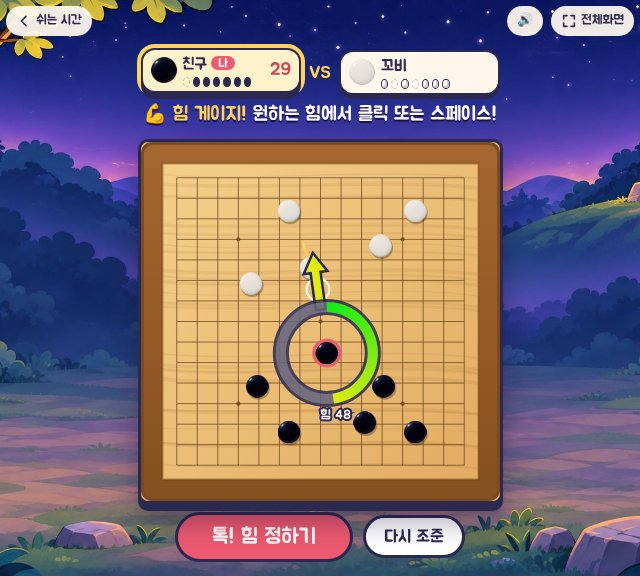
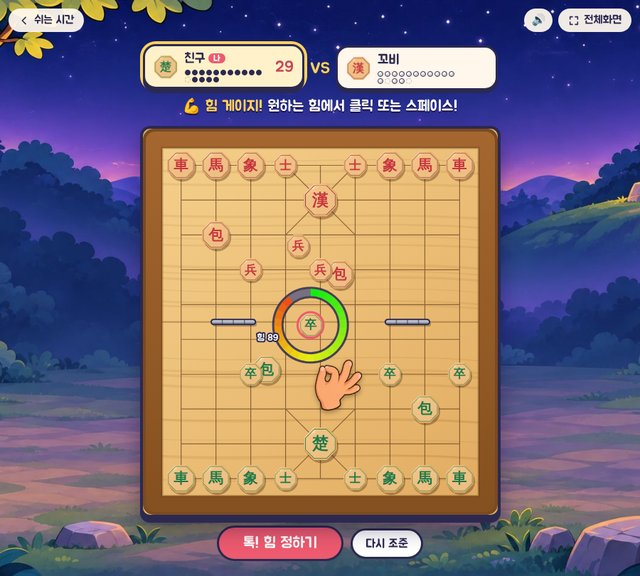
알까기: 홈 화면 썸네일을 장기알 판으로 (#26)
* 알까기: 홈 화면 썸네일을 장기알 판으로

Claude-Session: https://claude.ai/code/session_01TJDp5WhX27f1nAHrnhnPbG

* 홈: 알까기 썸네일 새로 불러오기

Claude-Session: https://claude.ai/code/session_01TJDp5WhX27f1nAHrnhnPbG

---------

Changed region(s): [[0.1875, 0.0625, 0.8125, 1.0], [0.7812, 0.0, 1.0, 0.0625], [0.0, 0.0, 0.1562, 0.0625]]

diff --git a/index.html b/index.html
@@ -144,7 +144,7 @@ h1{position:absolute;width:1px;height:1px;overflow:hidden;clip:rect(0 0 0 0)}
       <p>방 코드로 친구와 만나 한 수씩! 다섯 개를 먼저 이어요.</p>
     </a>
     <a class="game" href="alkkagi/">
-      <img src="alkkagi/thumb.jpg" alt="꼬비의 알까기 게임 화면">
+      <img src="alkkagi/thumb.jpg?v=2" alt="꼬비의 알까기 게임 화면">
       <div class="title"><b>꼬비의 알까기</b></div>
       <p>바둑알·장기알을 톡! 힘 게이지와 "딱!" 타이밍으로 판 밖으로.</p>
     </a>
